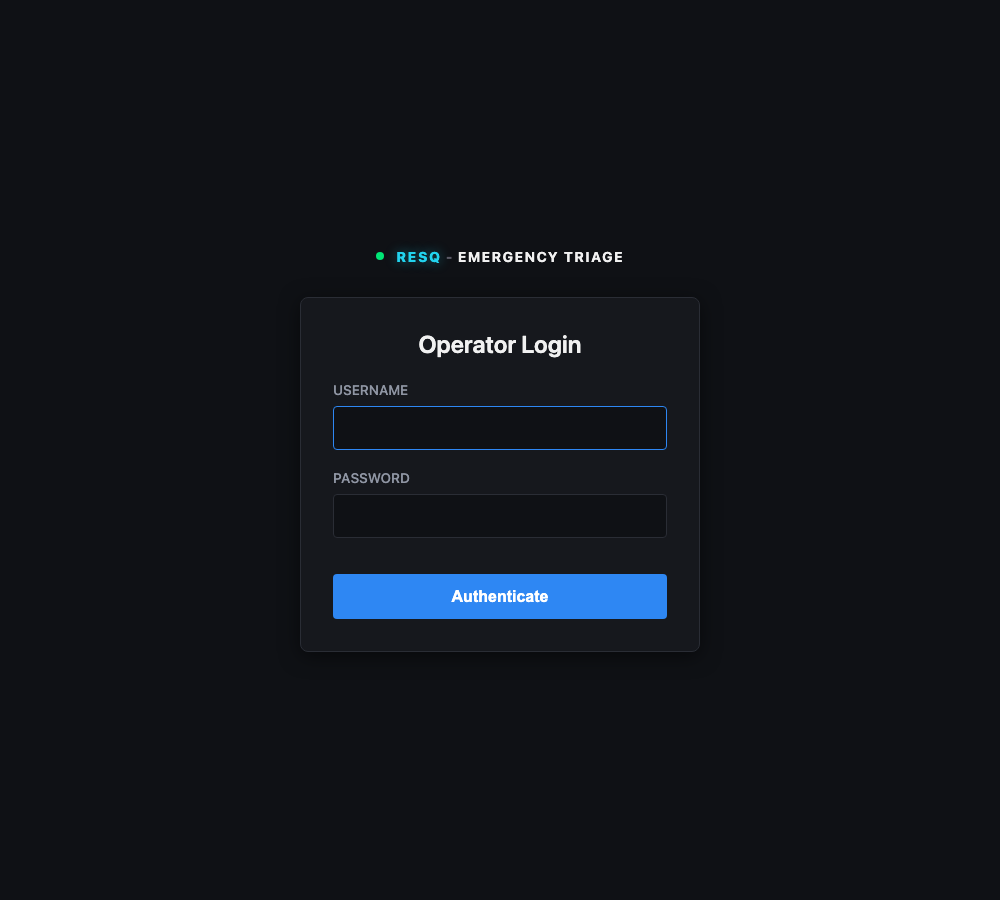
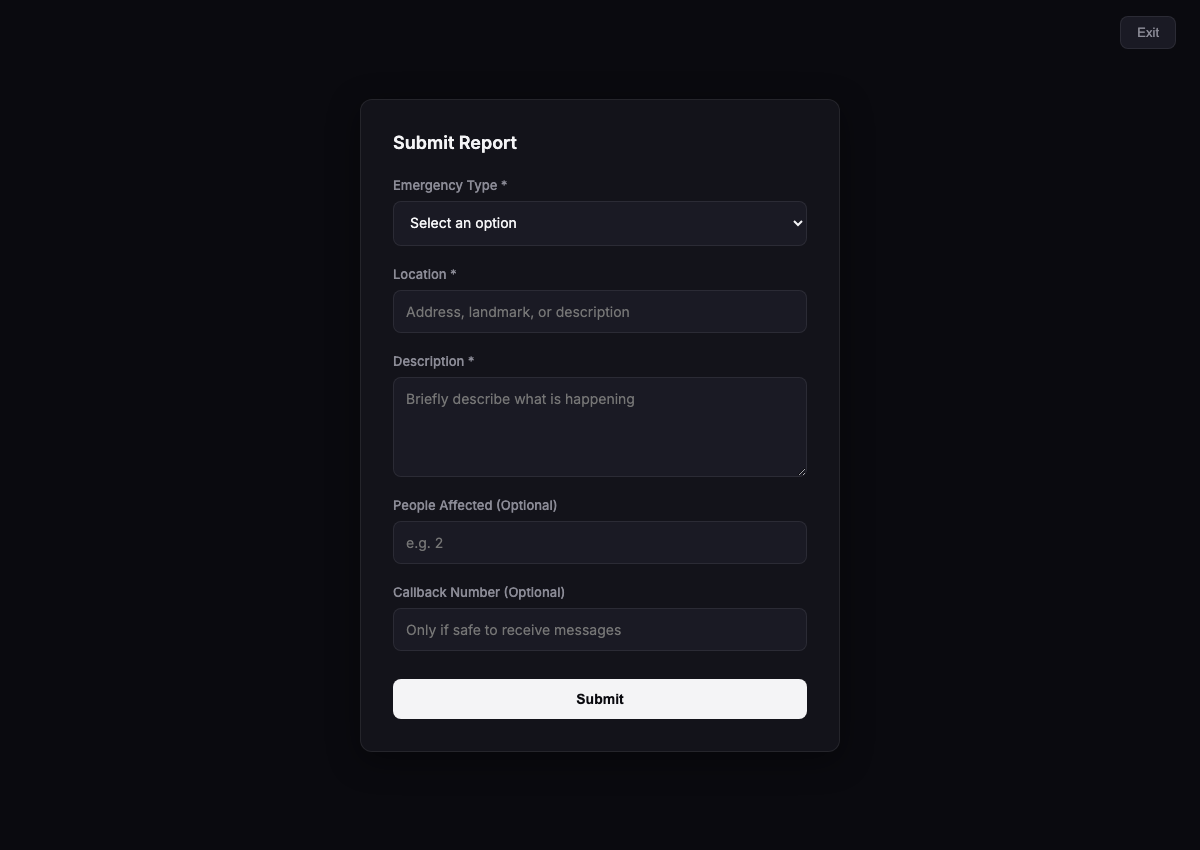
fix: correct silent emergency report screenshot and allow unauthenticated citizen access

diff --git a/app/main.py b/app/main.py
@@ -27,6 +27,8 @@ app = FastAPI(title="SIH Triage API", lifespan=lifespan)
 class AuthMiddleware(BaseHTTPMiddleware):
     async def dispatch(self, request: Request, call_next):
         if request.url.path.startswith("/dashboard"):
+            if request.url.path == "/dashboard/silent.html":
+                return await call_next(request)
             if not request.session.get("user"):
                 return RedirectResponse(url="/login", status_code=303)
         return await call_next(request)
